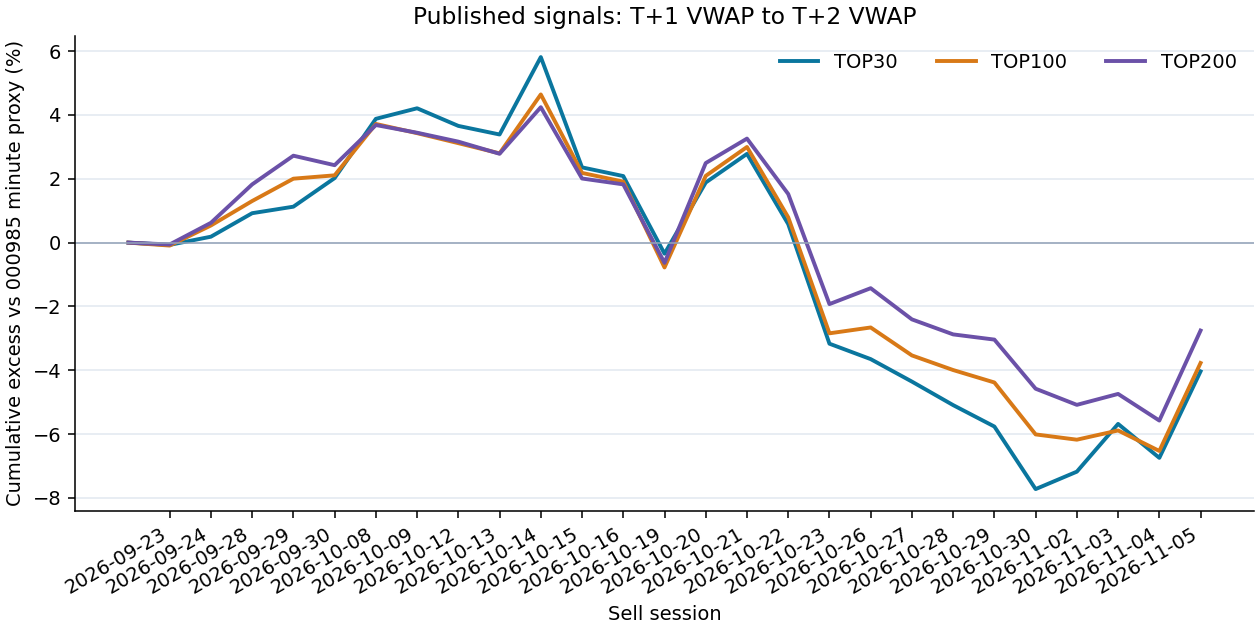
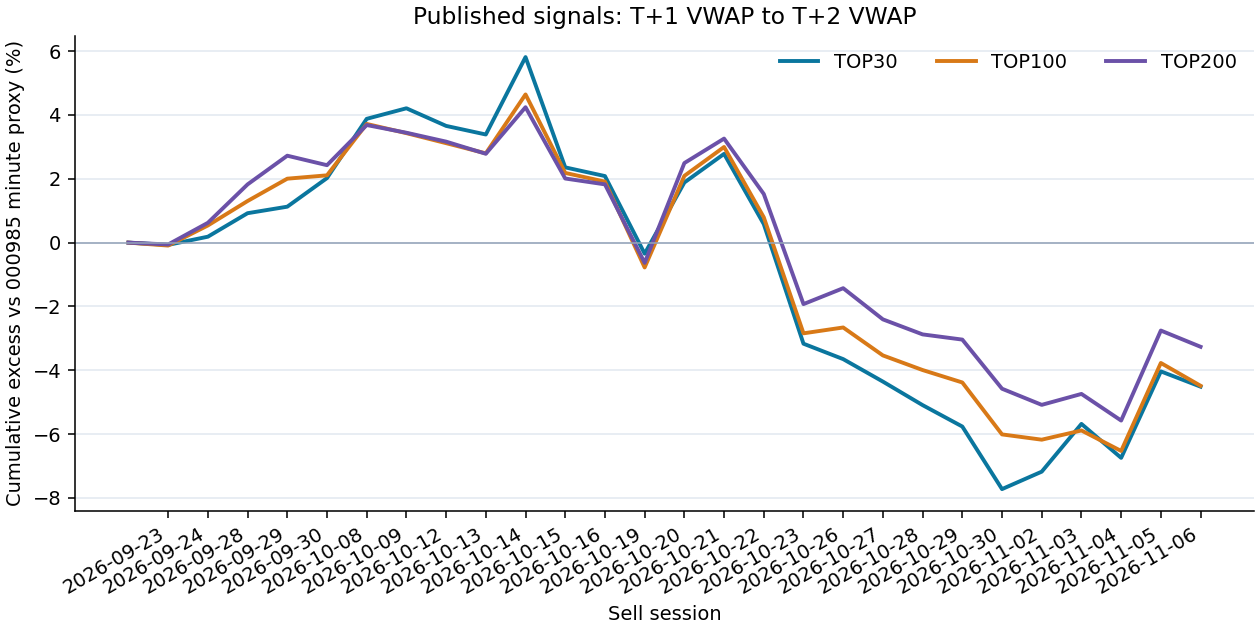
Update published signal performance through 2026-11-06

Changed region(s): [[0.1238, 0.0905, 0.9595, 0.7841], [0.031, 0.8444, 0.9595, 0.9349]]

diff --git a/README.md b/README.md
@@ -17,13 +17,13 @@ CSV 编码为 UTF-8 BOM，按 `signal` 降序排列。
 <!-- PUBLIC_PERFORMANCE_START -->
 ## 已发布信号的历史表现
 
-仅统计本仓库 `signals/YYYY-MM-DD.csv` 已上传且买卖两日行情均完整的信号；截至 **2026-11-05**，共有 **26** 个已完成信号日，另有 **2** 个待结算或数据未齐。样本很短，暂无统计显著性结论。
+仅统计本仓库 `signals/YYYY-MM-DD.csv` 已上传且买卖两日行情均完整的信号；截至 **2026-11-06**，共有 **27** 个已完成信号日，另有 **1** 个待结算或数据未齐。样本很短，暂无统计显著性结论。
 
 | 组合 | 已完成信号日 | 组合累计收益 | 000985同期收益 | 累计超额 |
 |---|---:|---:|---:|---:|
-| TOP30 | 26 | -16.26% | -12.74% | -4.03% |
-| TOP100 | 26 | -16.03% | -12.74% | -3.77% |
-| TOP200 | 26 | -15.14% | -12.74% | -2.75% |
+| TOP30 | 27 | -17.85% | -13.96% | -4.51% |
+| TOP100 | 27 | -17.82% | -13.96% | -4.49% |
+| TOP200 | 27 | -16.77% | -13.96% | -3.26% |
 
 ![TOP30、TOP100、TOP200 累计超额净值](performance/excess_nav.png)
 
@@ -33,7 +33,6 @@ CSV 编码为 UTF-8 BOM，按 `signal` 降序排列。
 
 | 信号日 | 卖出日 | TOP30 | TOP100 | TOP200 |
 |---|---|---:|---:|---:|
-| 2026-10-21 | 2026-10-23 | -366.22 | -354.51 | -334.00 |
 | 2026-10-22 | 2026-10-26 | -50.77 | +19.17 | +51.67 |
 | 2026-10-23 | 2026-10-27 | -72.87 | -89.67 | -98.82 |
 | 2026-10-26 | 2026-10-28 | -76.55 | -47.17 | -47.91 |
@@ -43,6 +42,7 @@ CSV 编码为 UTF-8 BOM，按 `signal` 降序排列。
 | 2026-10-30 | 2026-11-03 | +161.39 | +30.84 | +36.14 |
 | 2026-11-02 | 2026-11-04 | -113.77 | -68.85 | -88.39 |
 | 2026-11-03 | 2026-11-05 | +298.94 | +303.46 | +307.32 |
+| 2026-11-04 | 2026-11-06 | -49.17 | -73.19 | -51.56 |
 
 ![TOP30、TOP100、TOP200 逐日超额](performance/daily_excess.png)
 
